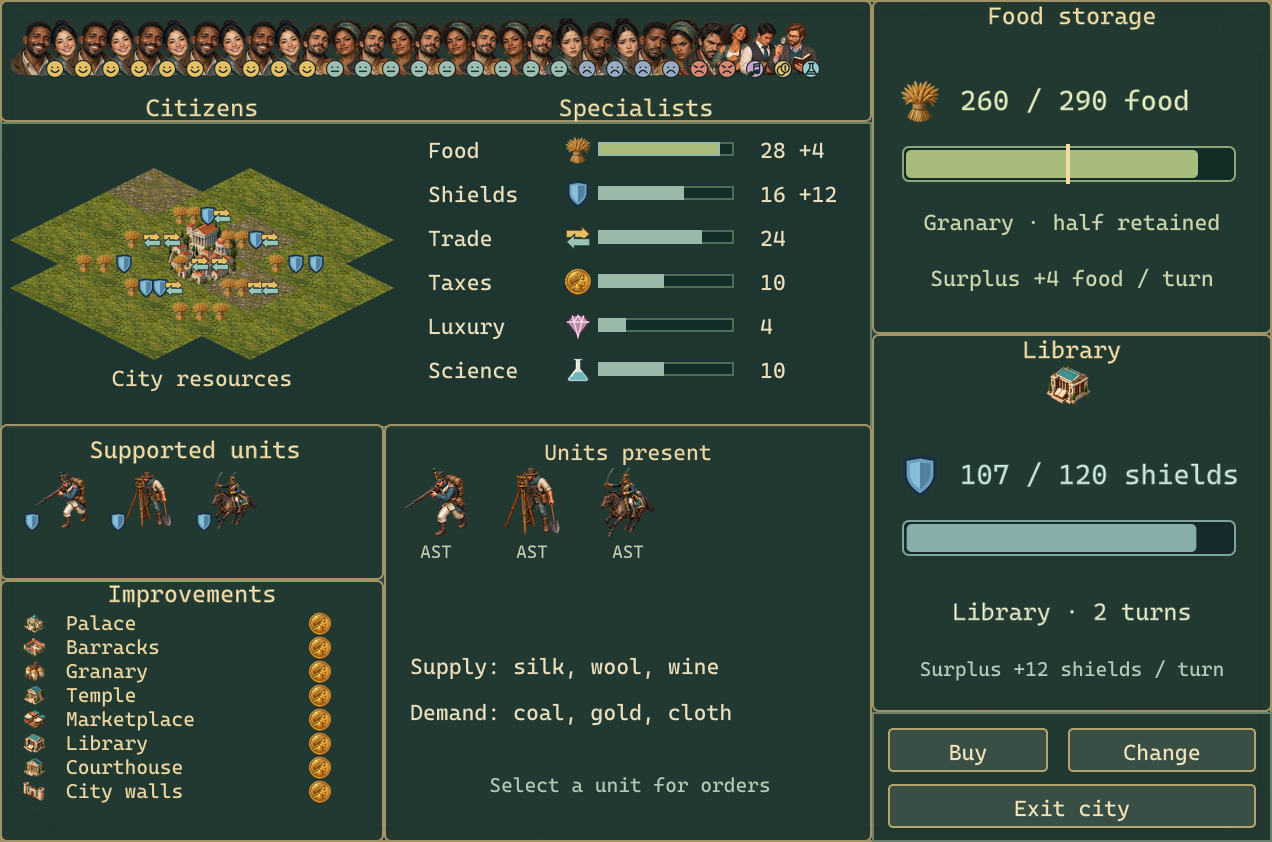
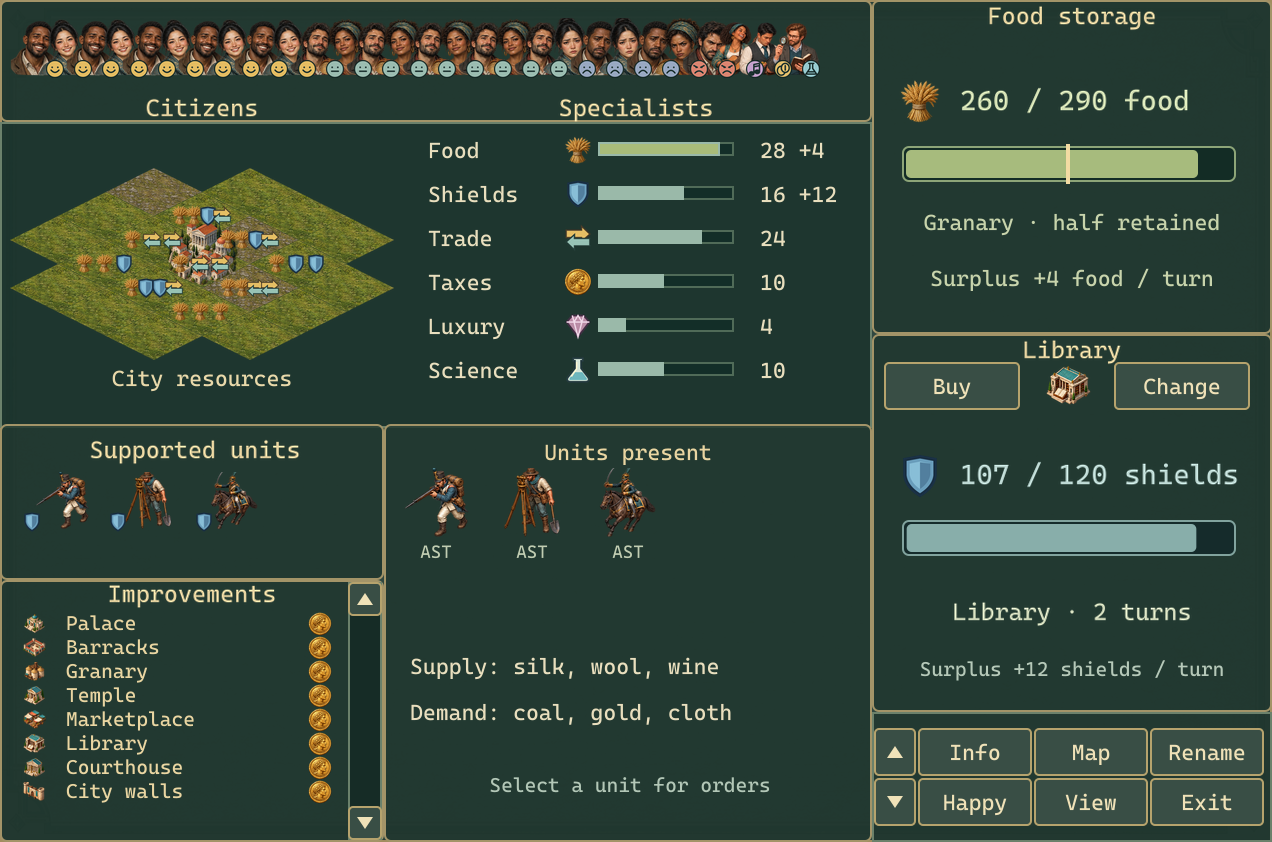
Restore complete controls in enhanced city mockups

diff --git a/assets/atlas-hd/RENDER-UPGRADES.md b/assets/atlas-hd/RENDER-UPGRADES.md
@@ -333,6 +333,14 @@ adjacent icon and numeric-label boxes within each stockpile panel. Keep them cle
 of the production heading/artwork, meter and button panel; do not position them
 using coordinates from the old icon-grid layout.
 
+Preserve every existing city action when simplifying the dashboard. The enhanced
+mockups retain Buy/Change beside production; Info, Map, Rename, Happy, View and
+Exit in the bottom panel; previous/next-city arrows; and the improvements
+scrollbar. Their bounds follow `create_controls`, `create_change_button` and
+`create_exit_button` (`src/auto/city.cpp:16712–17046`), with the enhanced button
+styling. These static previews show the controls, not interactive callbacks or
+alternate notice/autobuild states.
+
 For a later independently scoped layout pass, replace the three hard size jumps
 with logical minimum sizes, allow the improvements list to gain rows on taller
 windows, and page or wrap crowded citizens with an explicit total. Do not shrink
